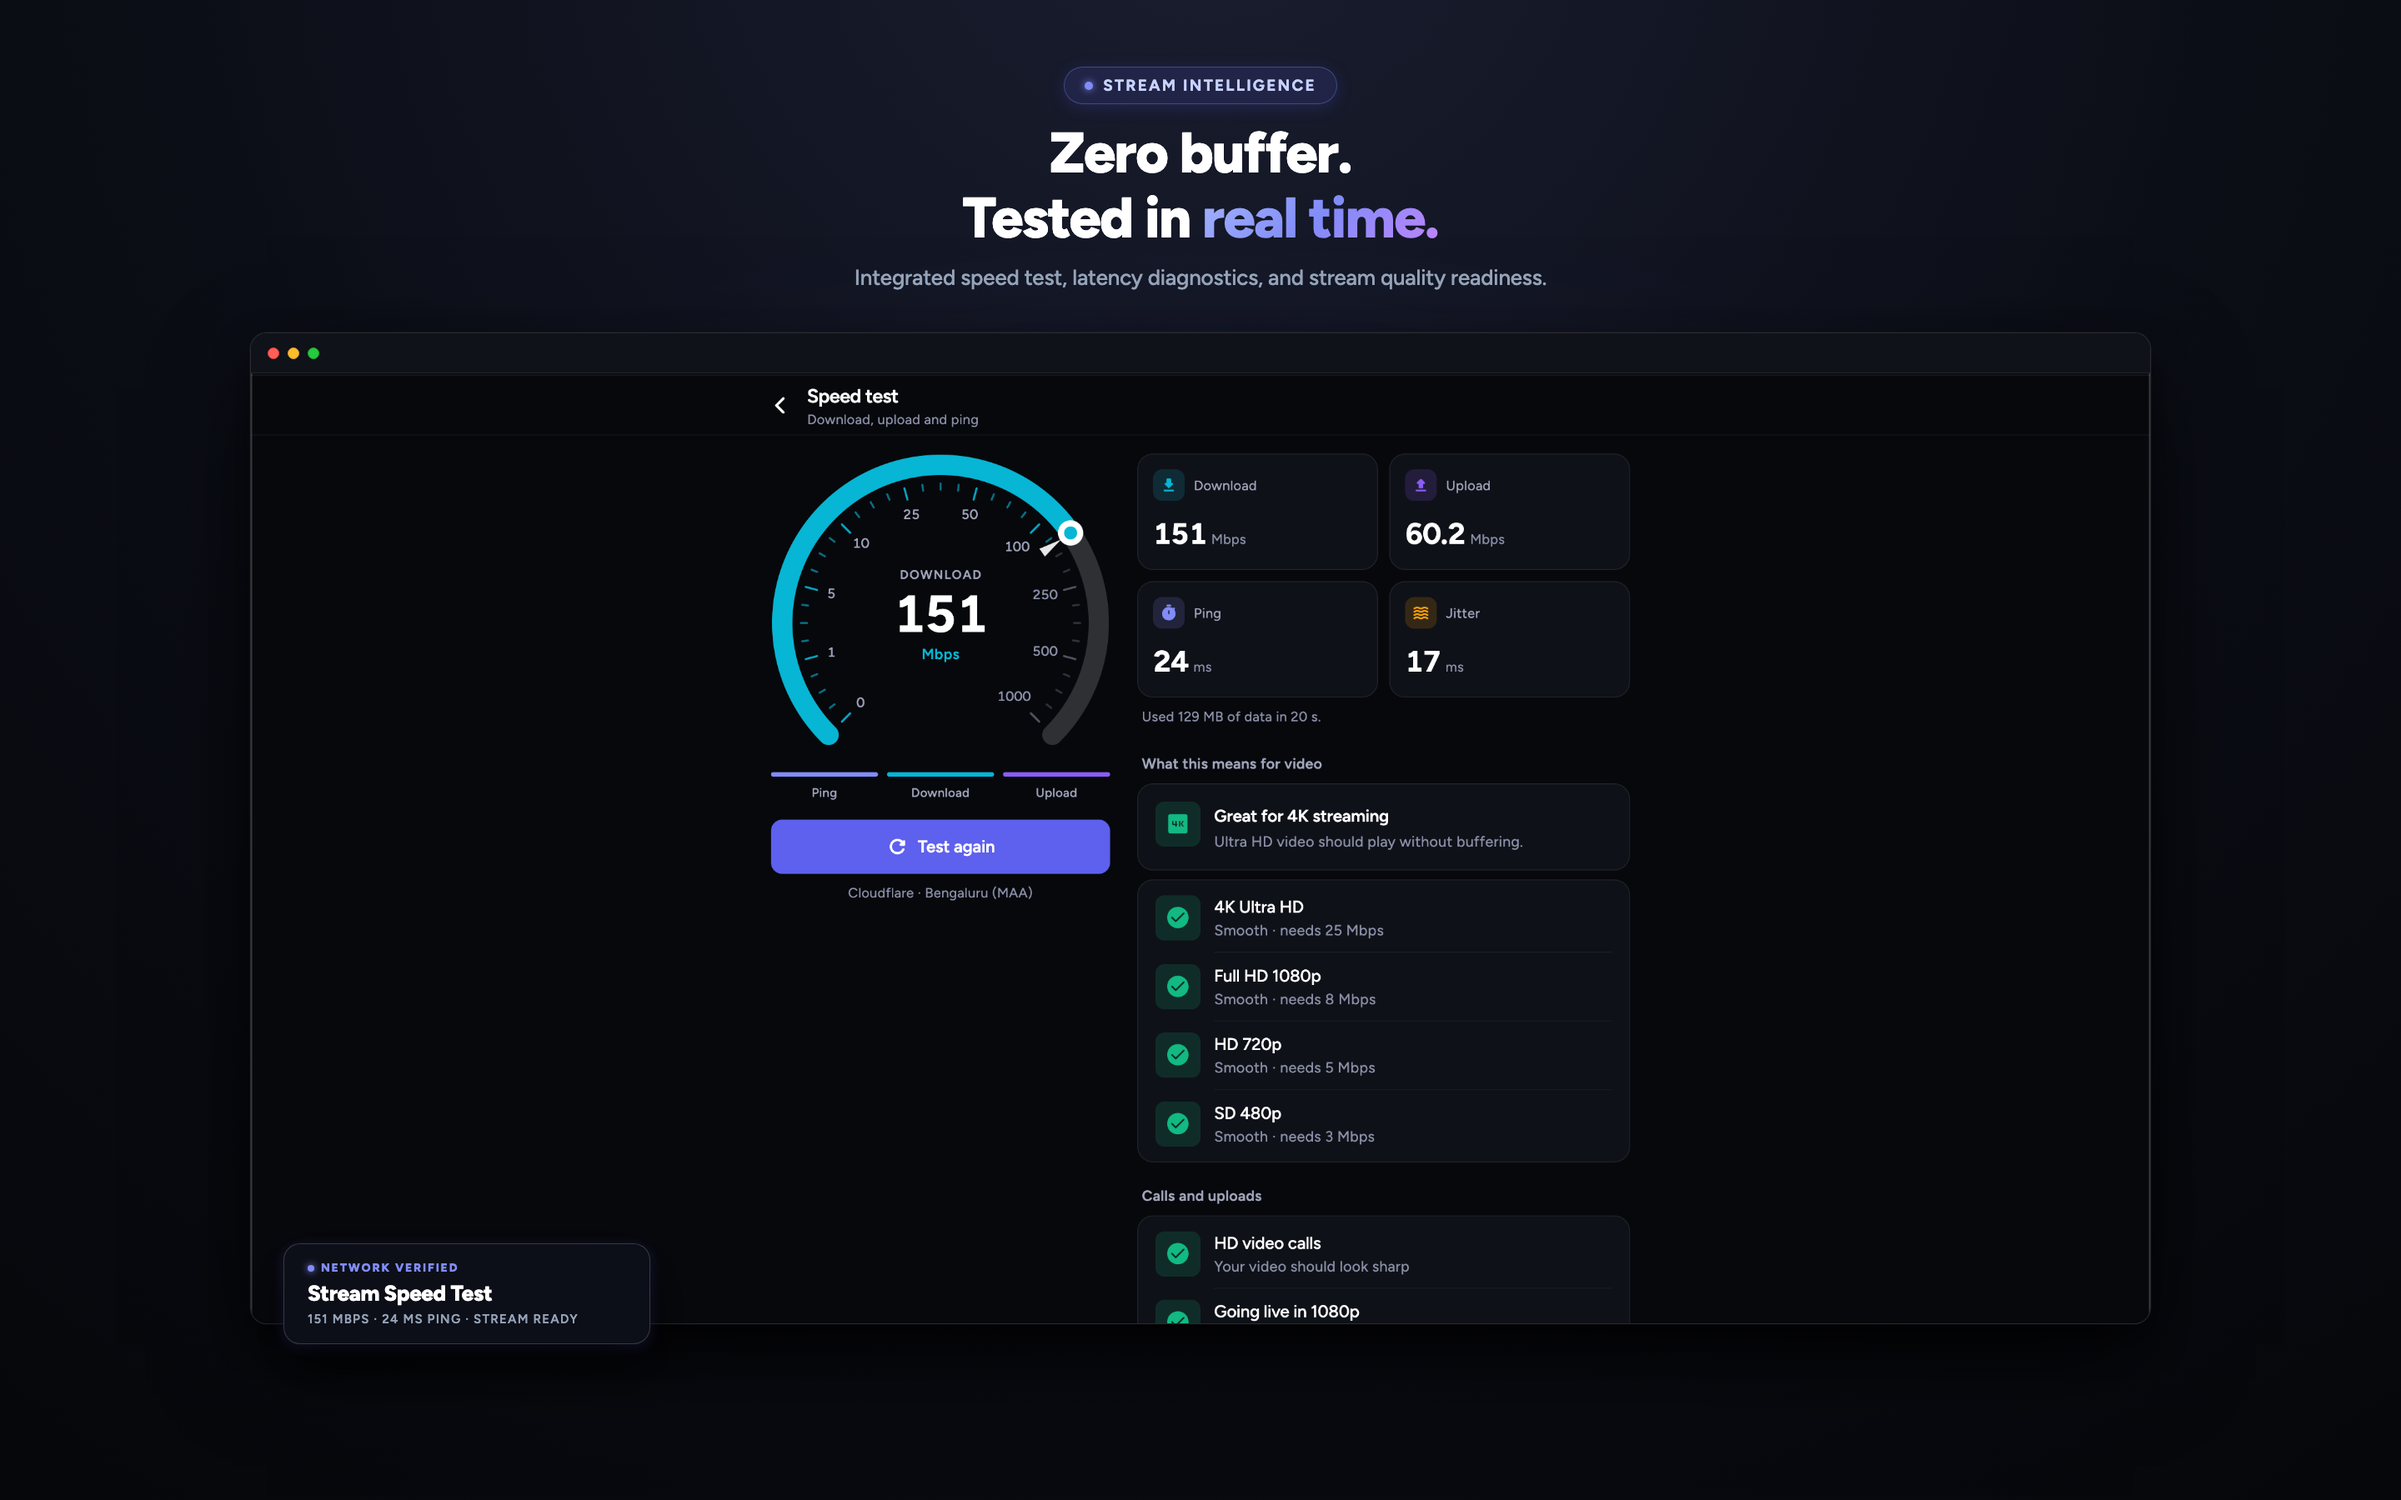
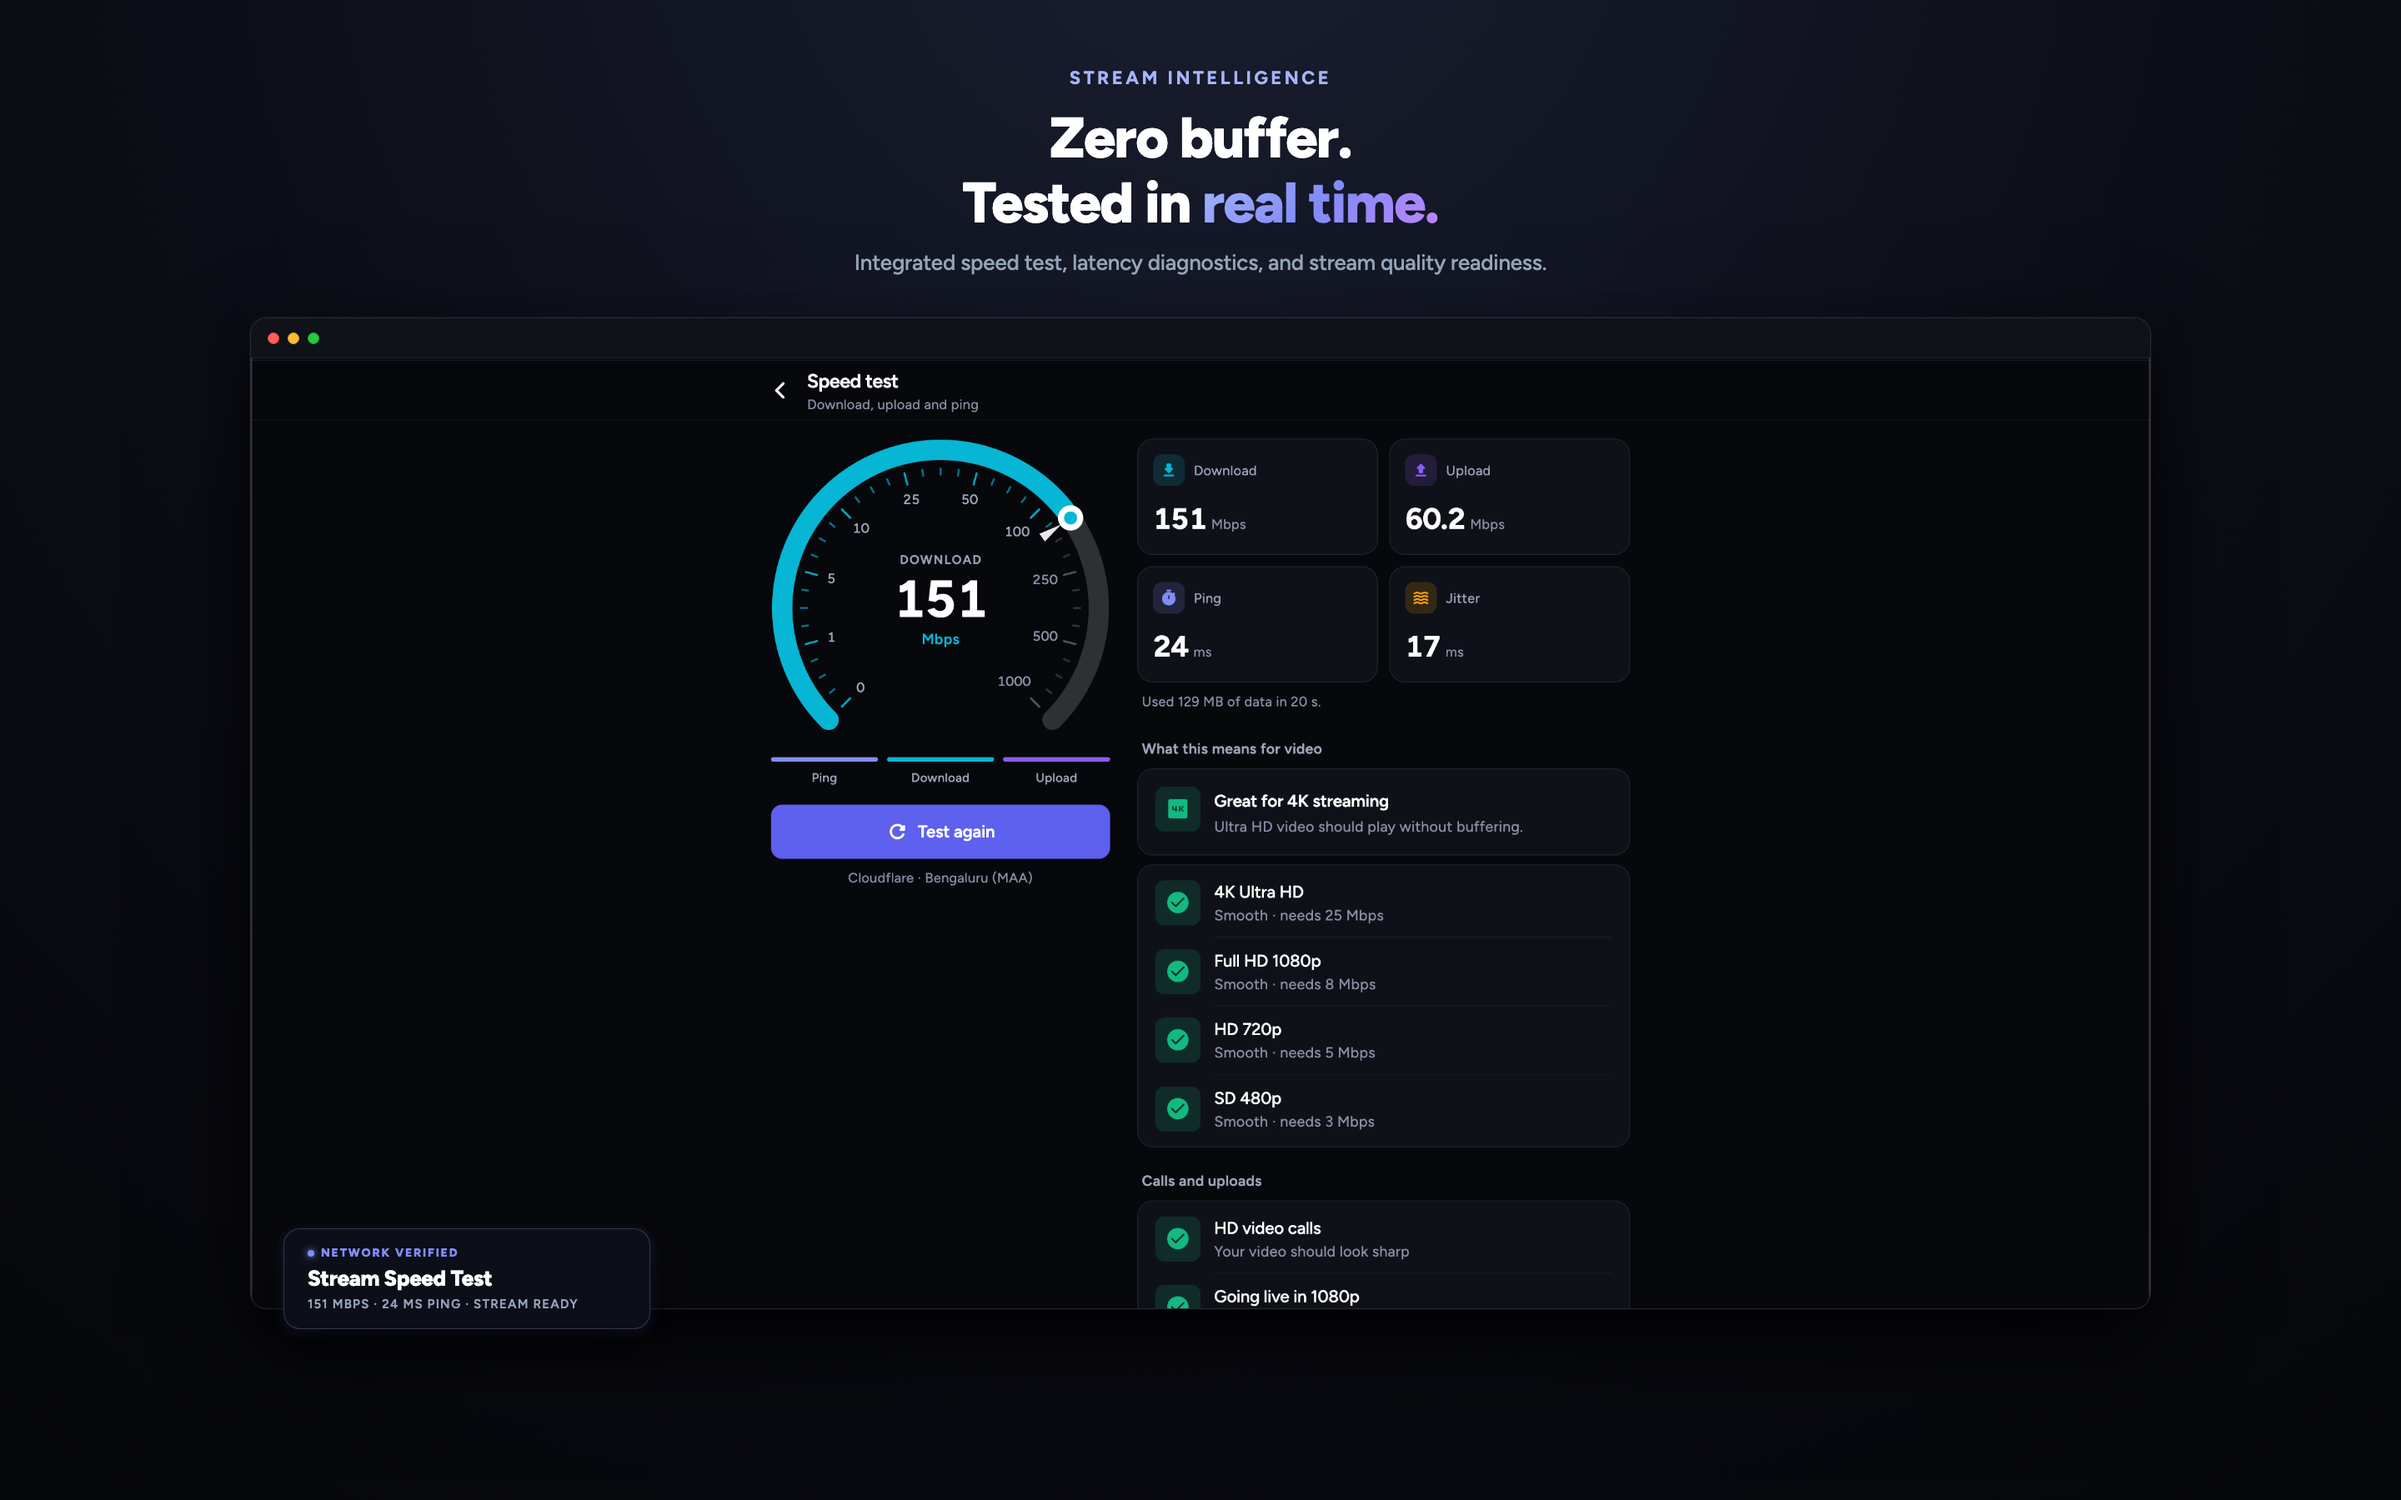
feat(macos): add mac release packaging, fastlane automation, metadata and updated store screenshots

diff --git a/scripts/generate_mac_screenshots.py b/scripts/generate_mac_screenshots.py
@@ -5,7 +5,7 @@ import subprocess
 import shutil
 from PIL import Image
 
-WORKSPACE = os.path.dirname(os.path.abspath(__file__))
+WORKSPACE = os.path.dirname(os.path.dirname(os.path.abspath(__file__)))
 PUB_DIR = os.path.join(WORKSPACE, "publishing")
 SRC_DIR = os.path.join(PUB_DIR, "source_assets")
 OUT_MAC = os.path.join(PUB_DIR, "screenshots", "mac")
@@ -26,7 +26,7 @@ slides = [
         "headline_line1": "Play everything.",
         "headline_line2": "In pure <span class=\"lit\">HDR clarity.</span>",
         "subline": "Hardware-accelerated playback for local media, playlists, and live streams.",
-        "screen_img": to_base64(os.path.join(SRC_DIR, "mac1.png")),
+        "screen_img": to_base64(os.path.join(SRC_DIR, "mac_01_hero.png")),
         "chip_pos": "right",
         "chip_status": "HARDWARE ACCELERATED",
         "chip_title": "All-Format Engine",
@@ -39,7 +39,7 @@ slides = [
         "headline_line1": "Every frame,",
         "headline_line2": "color <span class=\"lit\">graded live.</span>",
         "subline": "Live hardware brightness, contrast, saturation, gamma, and hue adjustments.",
-        "screen_img": to_base64(os.path.join(SRC_DIR, "mac2.png")),
+        "screen_img": to_base64(os.path.join(SRC_DIR, "mac_02_color.png")),
         "chip_pos": "left",
         "chip_status": "FRAME-BY-FRAME DSP",
         "chip_title": "Hardware Color Grade",
@@ -52,7 +52,7 @@ slides = [
         "headline_line1": "Smart playback.",
         "headline_line2": "Tuned to <span class=\"lit\">your rhythm.</span>",
         "subline": "Integrated stream diagnostics, media inspector, and storage tools.",
-        "screen_img": to_base64(os.path.join(SRC_DIR, "mac3.png")),
+        "screen_img": to_base64(os.path.join(SRC_DIR, "mac_03_settings.png")),
         "chip_pos": "right",
         "chip_status": "ALL-IN-ONE TOOLKIT",
         "chip_title": "Pro Media Suite",
@@ -65,7 +65,7 @@ slides = [
         "headline_line1": "Zero buffer.",
         "headline_line2": "Tested in <span class=\"lit\">real time.</span>",
         "subline": "Integrated speed test, latency diagnostics, and stream quality readiness.",
-        "screen_img": to_base64(os.path.join(SRC_DIR, "mac4.png")),
+        "screen_img": to_base64(os.path.join(SRC_DIR, "mac_04_speed_test.png")),
         "chip_pos": "left",
         "chip_status": "NETWORK VERIFIED",
         "chip_title": "Stream Speed Test",
@@ -78,7 +78,7 @@ slides = [
         "headline_line1": "Your media.",
         "headline_line2": "Zero <span class=\"lit\">tracking.</span>",
         "subline": "Complete on-device privacy, direct local file playback, and cache management.",
-        "screen_img": to_base64(os.path.join(SRC_DIR, "mac5.png")),
+        "screen_img": to_base64(os.path.join(SRC_DIR, "mac_05_storage.png")),
         "chip_pos": "right",
         "chip_status": "ON-DEVICE PRIVACY",
         "chip_title": "Zero Data Collected",
@@ -137,29 +137,13 @@ HTML_TEMPLATE = """<!DOCTYPE html>
     z-index: 10;
   }}
 
-  .eyebrow-pill {{
-    display: inline-flex;
-    align-items: center;
-    gap: 12px;
-    padding: 10px 24px;
-    background: rgba(94, 96, 238, 0.14);
-    border: 1.5px solid rgba(129, 140, 248, 0.35);
-    border-radius: 999px;
-    font-size: 19px;
+  .eyebrow {{
+    font-size: 22px;
     font-weight: 700;
-    letter-spacing: 2.2px;
-    color: #C7D2FE;
+    letter-spacing: 0.16em;
+    color: #A5B4FC;
     text-transform: uppercase;
     margin-bottom: 20px;
-    box-shadow: 0 4px 20px rgba(94, 96, 238, 0.2);
-  }}
-
-  .eyebrow-dot {{
-    width: 10px;
-    height: 10px;
-    border-radius: 50%;
-    background: #818CF8;
-    box-shadow: 0 0 10px #818CF8;
   }}
 
   .headline {{
@@ -313,8 +297,7 @@ HTML_TEMPLATE = """<!DOCTYPE html>
   <div class="ambient-glow"></div>
 
   <div class="header-zone">
-    <div class="eyebrow-pill">
-      <div class="eyebrow-dot"></div>
+    <div class="eyebrow">
       {eyebrow}
     </div>
     <div class="headline">

diff --git a/scripts/generate_ipad_screenshots.py b/scripts/generate_ipad_screenshots.py
@@ -25,7 +25,7 @@ mockup_ipad_b64 = to_base64(os.path.join(SRC_DIR, "mockup-ipad.png"))
 slides = [
     {
         "index": 1,
-        "id": "01_hero_4k",
+        "id": "01_hero",
         "eyebrow": "ULTRA-HD PLAYBACK ENGINE",
         "headline_line1": "Play everything.",
         "headline_line2": "In pure <span class=\"lit\">HDR clarity.</span>",

diff --git a/scripts/generate_screenshots.py b/scripts/generate_screenshots.py
@@ -21,7 +21,7 @@ mockup_b64 = to_base64(os.path.join(SRC_DIR, "mockup.png"))
 
 slides = [
     {
-        "id": "01_hero_4k",
+        "id": "01_hero",
         "eyebrow": "ULTRA-HD PLAYBACK ENGINE",
         "headline_line1": "Play everything.",
         "headline_line2": "In pure <span class=\"lit\">HDR clarity.</span>",

diff --git a/ios/fastlane/README.md b/ios/fastlane/README.md
@@ -47,6 +47,22 @@ Upload screenshots only to App Store Connect
 
 Upload Mac screenshots to App Store Connect
 
+### ios mac_metadata
+
+```sh
+[bundle exec] fastlane ios mac_metadata
+```
+
+Upload Mac metadata to App Store Connect
+
+### ios verify_mac_metadata
+
+```sh
+[bundle exec] fastlane ios verify_mac_metadata
+```
+
+Verify Mac metadata in App Store Connect
+
 ### ios beta
 
 ```sh
@@ -62,6 +78,14 @@ Build and upload to TestFlight
 ```
 
 Build signed IPA and upload binary to App Store Connect
+
+### ios mac_release
+
+```sh
+[bundle exec] fastlane ios mac_release
+```
+
+Build signed PKG and upload binary to App Store Connect for macOS
 
 ----
 
